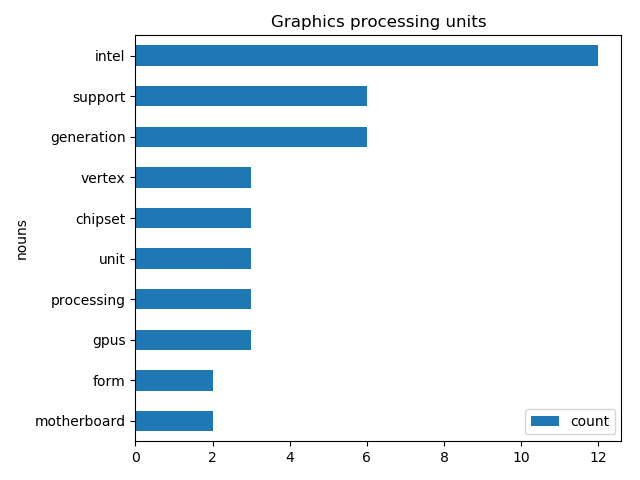
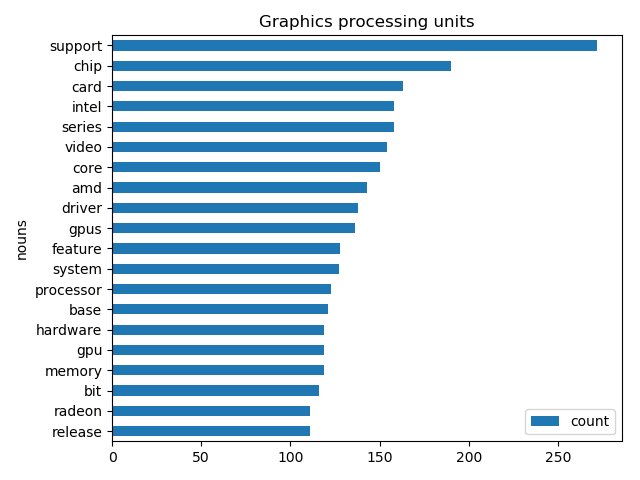
Added noun plots

diff --git a/vis/plots.py b/vis/plots.py
@@ -6,8 +6,6 @@ import pandas as pd
 
 if not os.path.isdir("noun-plots"):
     os.mkdir("noun-plots")
-if not os.path.isdir("lda-plots"):
-    os.mkdir("lda-plots")
 
 rootDirectory = os.path.dirname(os.path.abspath(os.path.dirname(__file__)))
 topicExtraction_output = os.path.join(rootDirectory, "topicExtraction", "src",
@@ -16,36 +14,12 @@ nounsFilePaths = glob.glob(
     os.path.join(topicExtraction_output, "nouns", "*", "*.csv"))
 
 for nounsFilePath in nounsFilePaths:
-    #name = nounsFilePath.split("\\")[1]
     category = os.path.basename(os.path.dirname(nounsFilePath))
     df = pd.read_csv(nounsFilePath)
-    # more than 10? less?
-    df_top10 = df.nlargest(10, "count")
-    #print(df.nlargest(2, "count"))
-    df_top10.plot(title=category, kind='barh', x='nouns', y='count')
+    df.plot(title=category, kind='barh', x='nouns', y='count')
     plt.gca().invert_yaxis()
     plt.tight_layout()
-    # locator = matplotlib.ticker.MultipleLocator(5)
-    # plt.gca().xaxis.set_major_locator(locator)
     formatter = matplotlib.ticker.StrMethodFormatter("{x:.0f}")
     plt.gca().xaxis.set_major_formatter(formatter)
-    #plt.show()
     plt.savefig("noun-plots/" + category + ".png", dpi=100)
-
-
-ldaFilePaths = glob.glob(os.path.join(topicExtraction_output, "lda", "*",
-                                      "*.json"))
-
-for ldaFilePath in ldaFilePaths:
-    category = os.path.basename(os.path.dirname(ldaFilePath))
-    if category == "Computer hardware":
-        df = pd.read_json(ldaFilePath) #change to csv
-        df.plot(title=category, kind='barh', x='terms', y='termWeights')
-        plt.gca().invert_yaxis()
-        plt.tight_layout()
-        plt.axis([0.024, 0.026, None, None])
-        # locator = matplotlib.ticker.MultipleLocator(0.0005)
-        # plt.gca().xaxis.set_major_locator(locator)
-        plt.tight_layout()
-        # plt.show()
-        plt.savefig("lda-plots/" + category + ".png", dpi=100)
+    plt.close()
